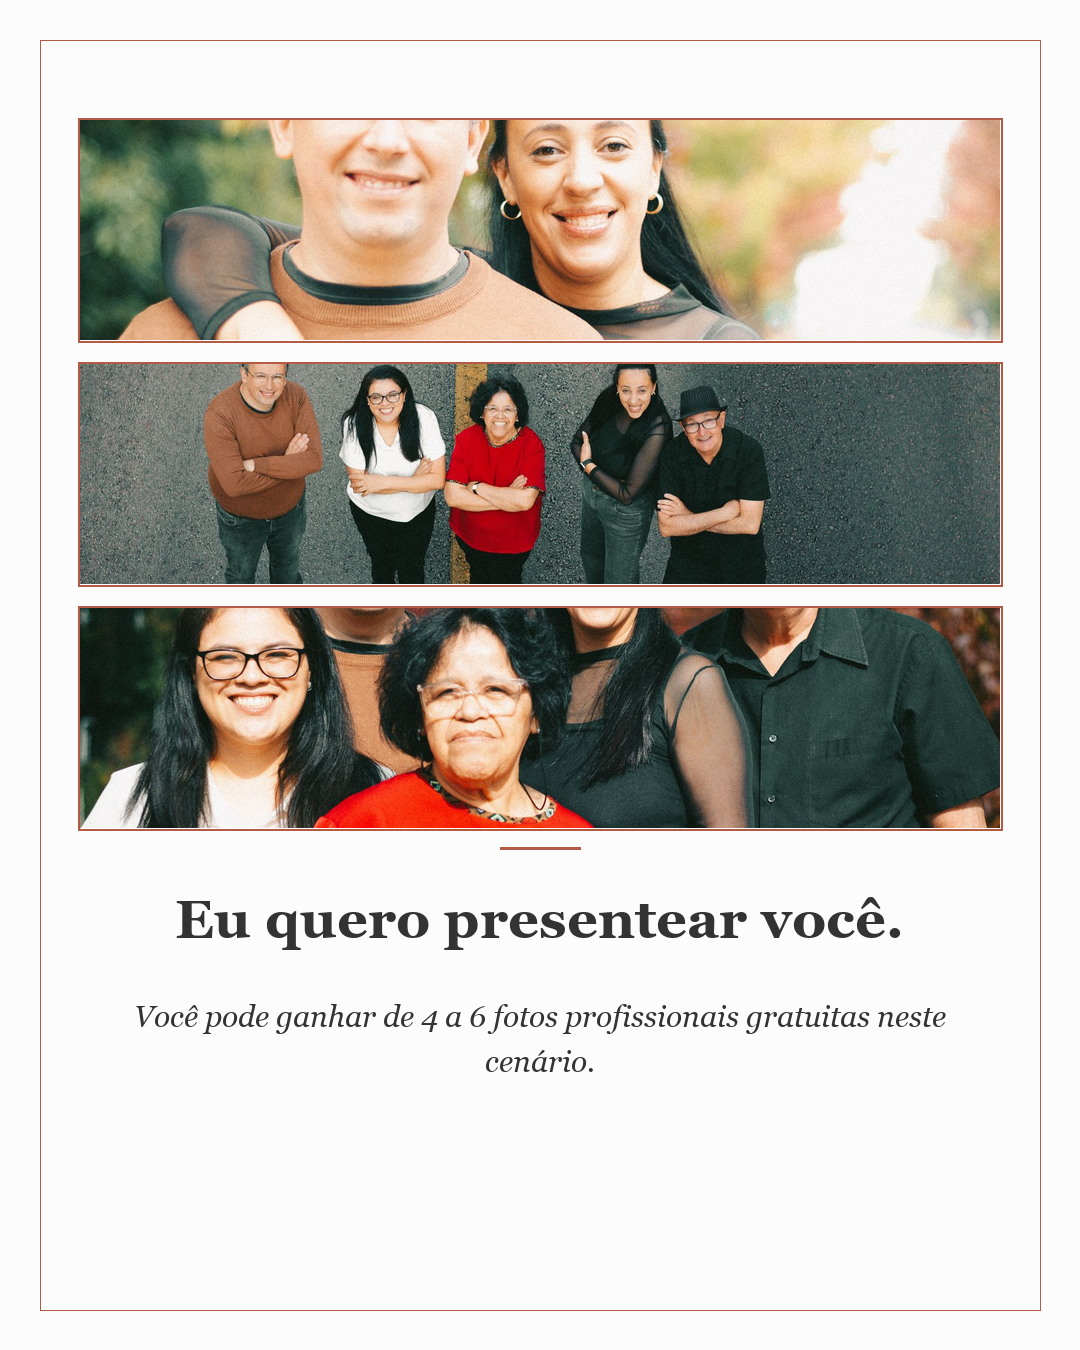
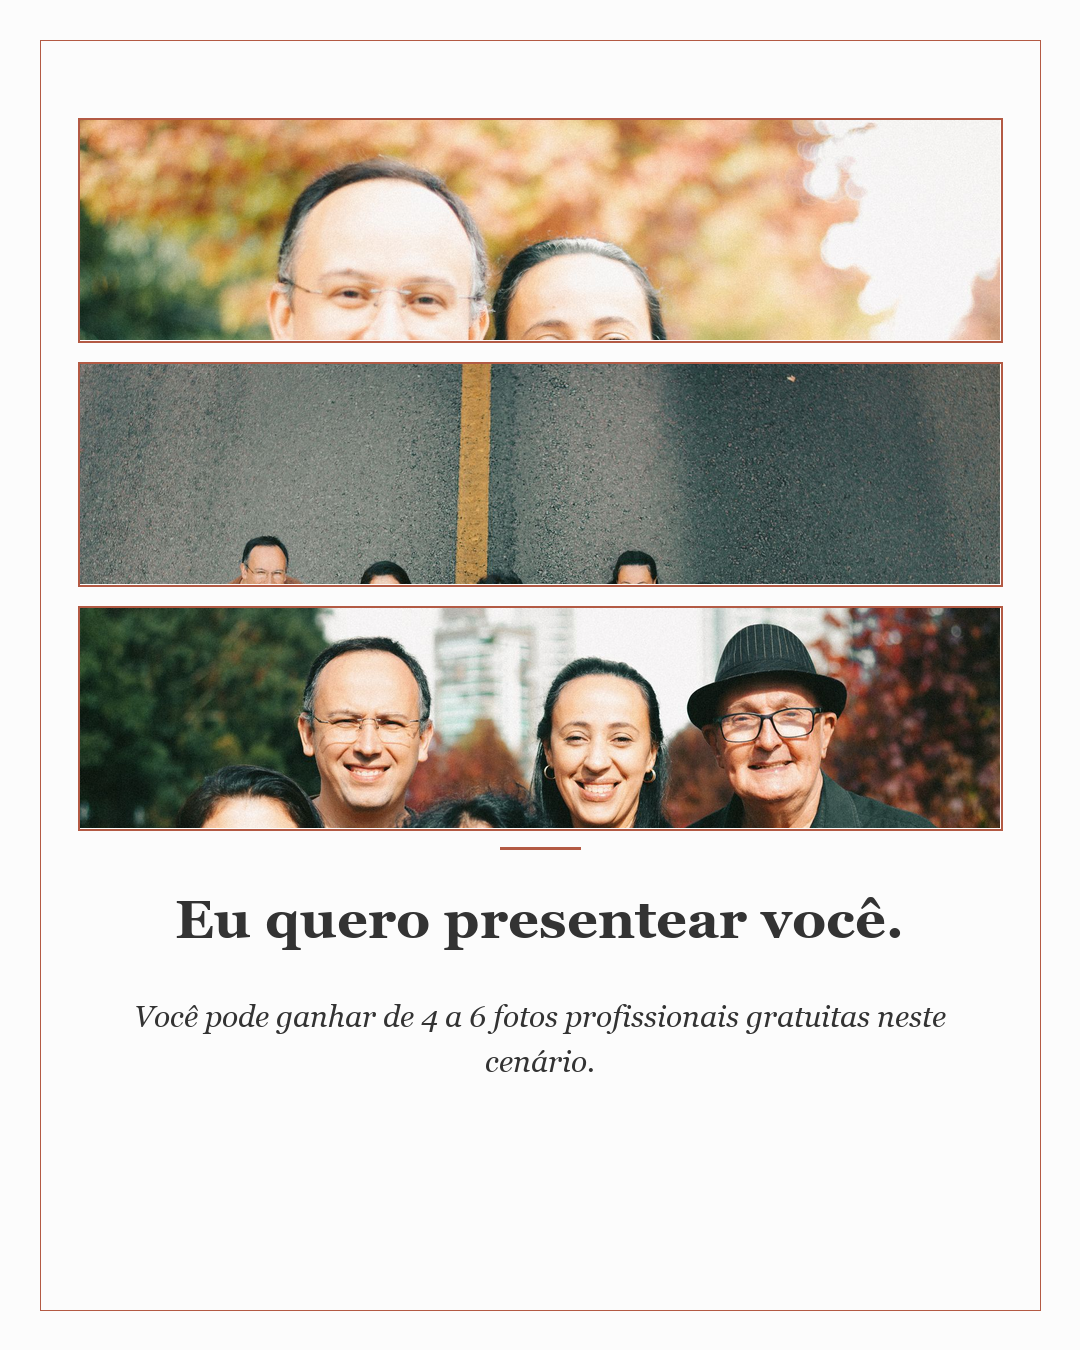
Fix Slide 4 crop to prioritize top portion and preserve people's heads

diff --git a/README.md b/README.md
@@ -1,0 +1,122 @@
+# 🍂 Rua do Outono - Campanha de Fotografia
+
+## 📋 Visão Geral
+
+Landing page e sistema de captação de leads para ensaios fotográficos na Rua do Outono, Curitiba. O projeto integra tráfego pago, captura de leads via Google Apps Script e notificações em tempo real no Telegram.
+
+## 🎯 Objetivo
+
+Captar leads qualificados para ensaios fotográficos promocionais (4-6 fotos gratuitas) com foco em conversão via WhatsApp e upsell de pacotes completos.
+
+## ✅ O que foi entregue
+
+### 1. Landing Page (https://eliuhahner.github.io/leadsfotografia/)
+- Design minimalista e premium com tipografia Playfair Display + Inter
+- Galeria rotativa (Swiper.js) com 15 fotos selecionadas
+- Seção da Rua do Outono (3 fotos + Google Maps embutido)
+- Formulário de captura: Nome, WhatsApp, E-mail
+- Lógica de sorteio: 80% chance de 5 fotos, 20% de 4 ou 6
+- Botão de agendamento via WhatsApp com mensagem dinâmica
+- **Performance**: Imagens otimizadas de 15MB $\rightarrow$ ~200-500KB cada
+
+### 2. Automação de Leads
+- **Google Apps Script** configurado para enviar notificações via Telegram
+- **Integração**: Formulário $\rightarrow$ Google Script $\rightarrow$ Bot Telegram (Daiane recebe leads instantaneamente)
+- Endpoint: `https://script.google.com/macros/s/AKfycbySLlEvdsroR4DmwS1hYbfYBz-u7HKM88l7Qu4SPdgzh2U9bVwgrzDxJompyXzz1IwC-w/exec`
+
+### 3. Estratégia de Vendas (WhatsApp)
+- Documento `estrategia_vendas.md` com scripts completos
+- Abordagem de "Consultora de Memórias" (não vendedora)
+- Técnicas de micro-comprometimento
+- Gestão de escassez (12 vagas: 09 e 16 de maio)
+- Respostas para objeções (preço, vergonha, indecisão)
+
+### 4. Carrossel Instagram
+- 6 slides em formato 1080x1350px (proporção 4:5)
+- Design editorial (estilo revista/galeria)
+- Seguindo rigorosamente o **Design System** (`design_system.md`)
+- Layout: Foto em moldura + zona de texto limpa
+- Tipografia: Georgia Bold (72pt título, 28pt subtítulo)
+- Paleta: Dourado #B35A44, Off-White #FCFCFC
+- **Slide 4 com empilhamento vertical** de 3 imagens panorâmicas
+- Arquivos finais em: `slides_instagram/slide_1.png` a `slide_6.png`
+
+### 5. Documentação de Design
+- `design_system.md`: Diretrizes completas de design
+- `carrossel_instagram/DESIGN_PATTERNS.md`: Padrões específicos para mídia social
+- Cores, tipografia, espaçamentos, regras de composição
+
+## 🛠 Tecnologias Utilizadas
+
+- **Frontend**: HTML5, CSS3 (Tailwind CSS), JavaScript (Vanilla)
+- **Carrossel**: Swiper.js
+- **Backend**: Google Apps Script (Serverless)
+- **Notificações**: Telegram Bot API
+- **Imagens**: Python (PIL/Pillow) para otimização
+- **Hospedagem**: GitHub Pages
+- **Controle de Versão**: Git/GitHub
+
+## 📂 Estrutura do Repositório
+
+```
+leadsfotografia/
+├── index.html                          # Landing page principal
+├── assets/
+│   ├── img/                         # Imagens otimizadas (PNG/JPG)
+│   └── slides/                      # Slides do Instagram (PNG)
+├── estrategia_vendas.md                # Gui de vendas WhatsApp
+├── design_system.md                   # Sistema de design
+├── google_apps_script.gs             # Script de notificações Telegram
+├── create_slides.py                   # Gerador de slides (Python)
+└── README.md                         # Este arquivo
+```
+
+## 🎨 Design Patterns (Instagram)
+
+### Dimensões
+- **Feed/Carrossel**: 1080x1350px (4:5)
+- **Stories**: 1080x1920px (9:16)
+
+### Cores
+| Nome | Hex |
+|------|-----|
+| Dourado (Primária) | `#B35A44` |
+| Off-White | `#FCFCFC` |
+| Texto Claro | `#FFFFFF` |
+| Texto Escuro | `#333333` |
+
+### Tipografia
+| Elemento | Fonte | Peso | Tamanho |
+|----------|-------|------|----------|
+| Títulos | Georgia Bold | 700 | 54-72px |
+| Subtítulos | Georgia Italic | 400 | 28-32px |
+
+## 🚀 Status do Projeto
+
+**✅ CONCLUÍDO**
+
+- [x] Landing page no ar e otimizada
+- [x] Captura de leads funcionando (testado)
+- [x] Notificações Telegram ativas
+- [x] Estratégia de vendas documentada
+- [x] Slides Instagram gerados (6 unidades)
+- [x] Design system aplicado
+- [x] Código versionado no GitHub
+
+## 📞 Próximos Passos (Para a Daiane)
+
+1. **Ativar Campanha**: Configurar anúncios no Meta Ads apontando para a Landing Page
+2. **Monitoramento**: Acompanhar leads chegando no Telegram
+3. **Conversão**: Aplicar scripts do `estrategia_vendas.md` no WhatsApp
+4. **Upsell**: No dia do ensaio, oferecer fotos adicionais (R$ 25,00 cada)
+
+## 📧 Contato
+
+**Daiane Borcath Fotografia**
+- Local: Curitiba, PR
+- Instagram: @daiane.borcath
+- WhatsApp: (41) 99960-5872
+
+---
+
+*Projeto desenvolvido em abril de 2026*
